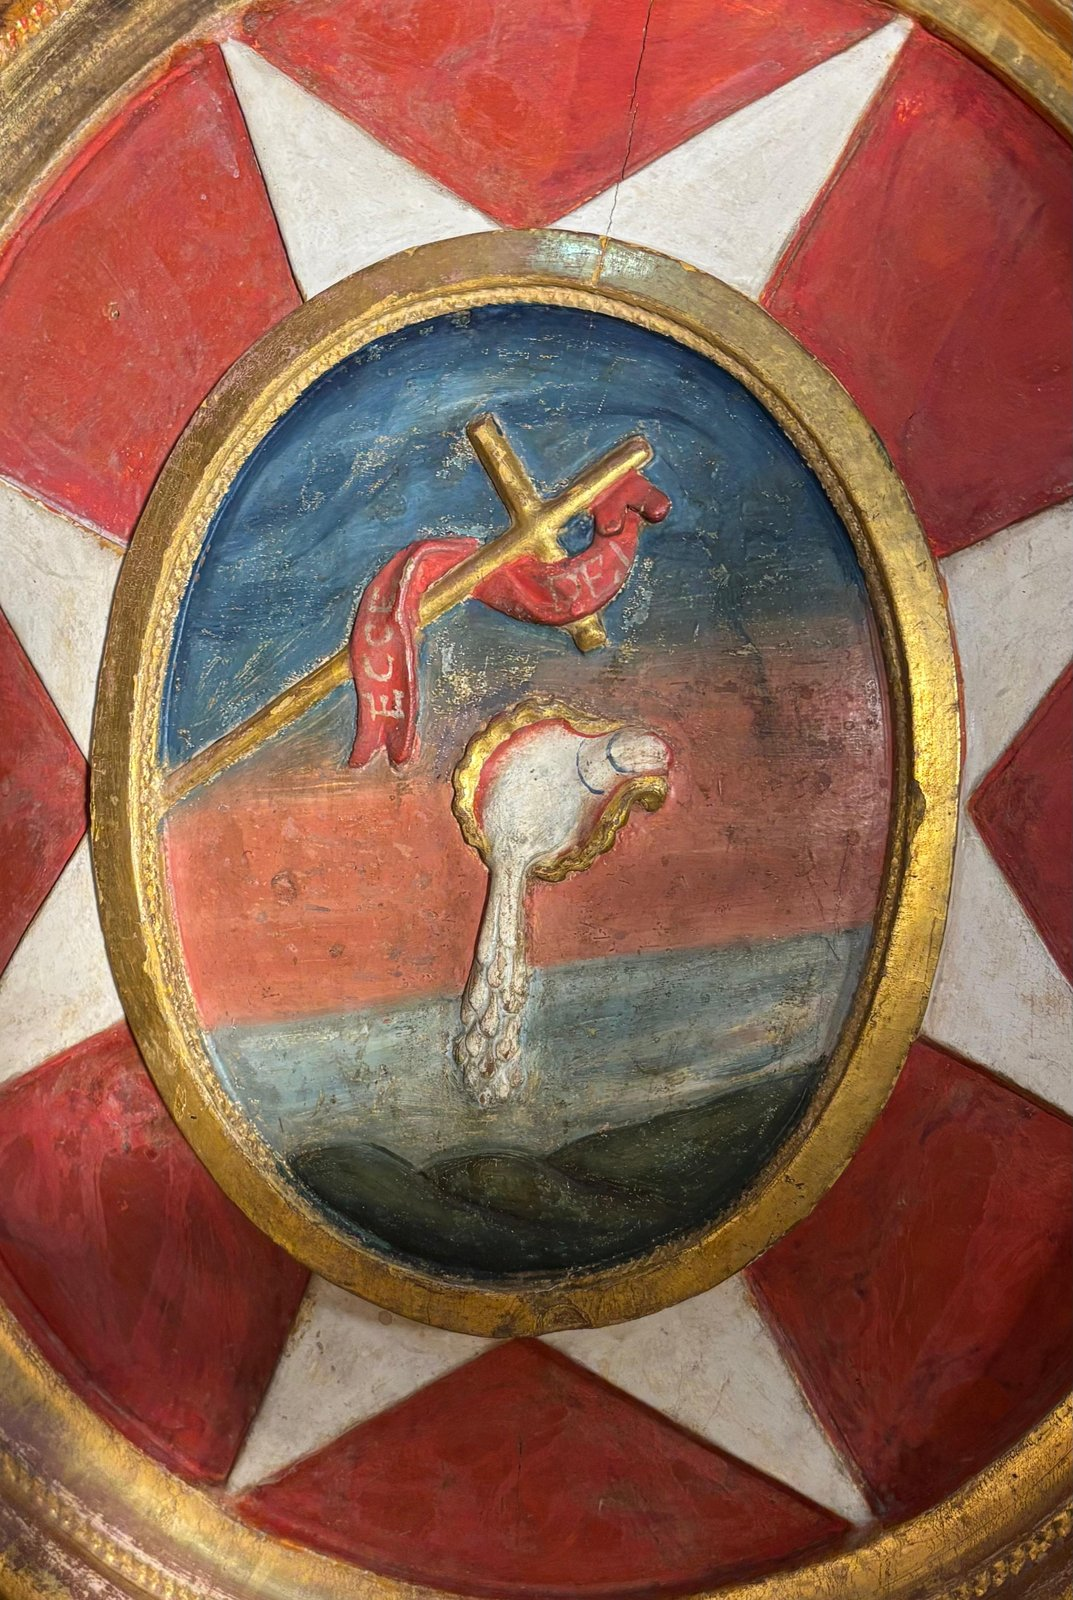
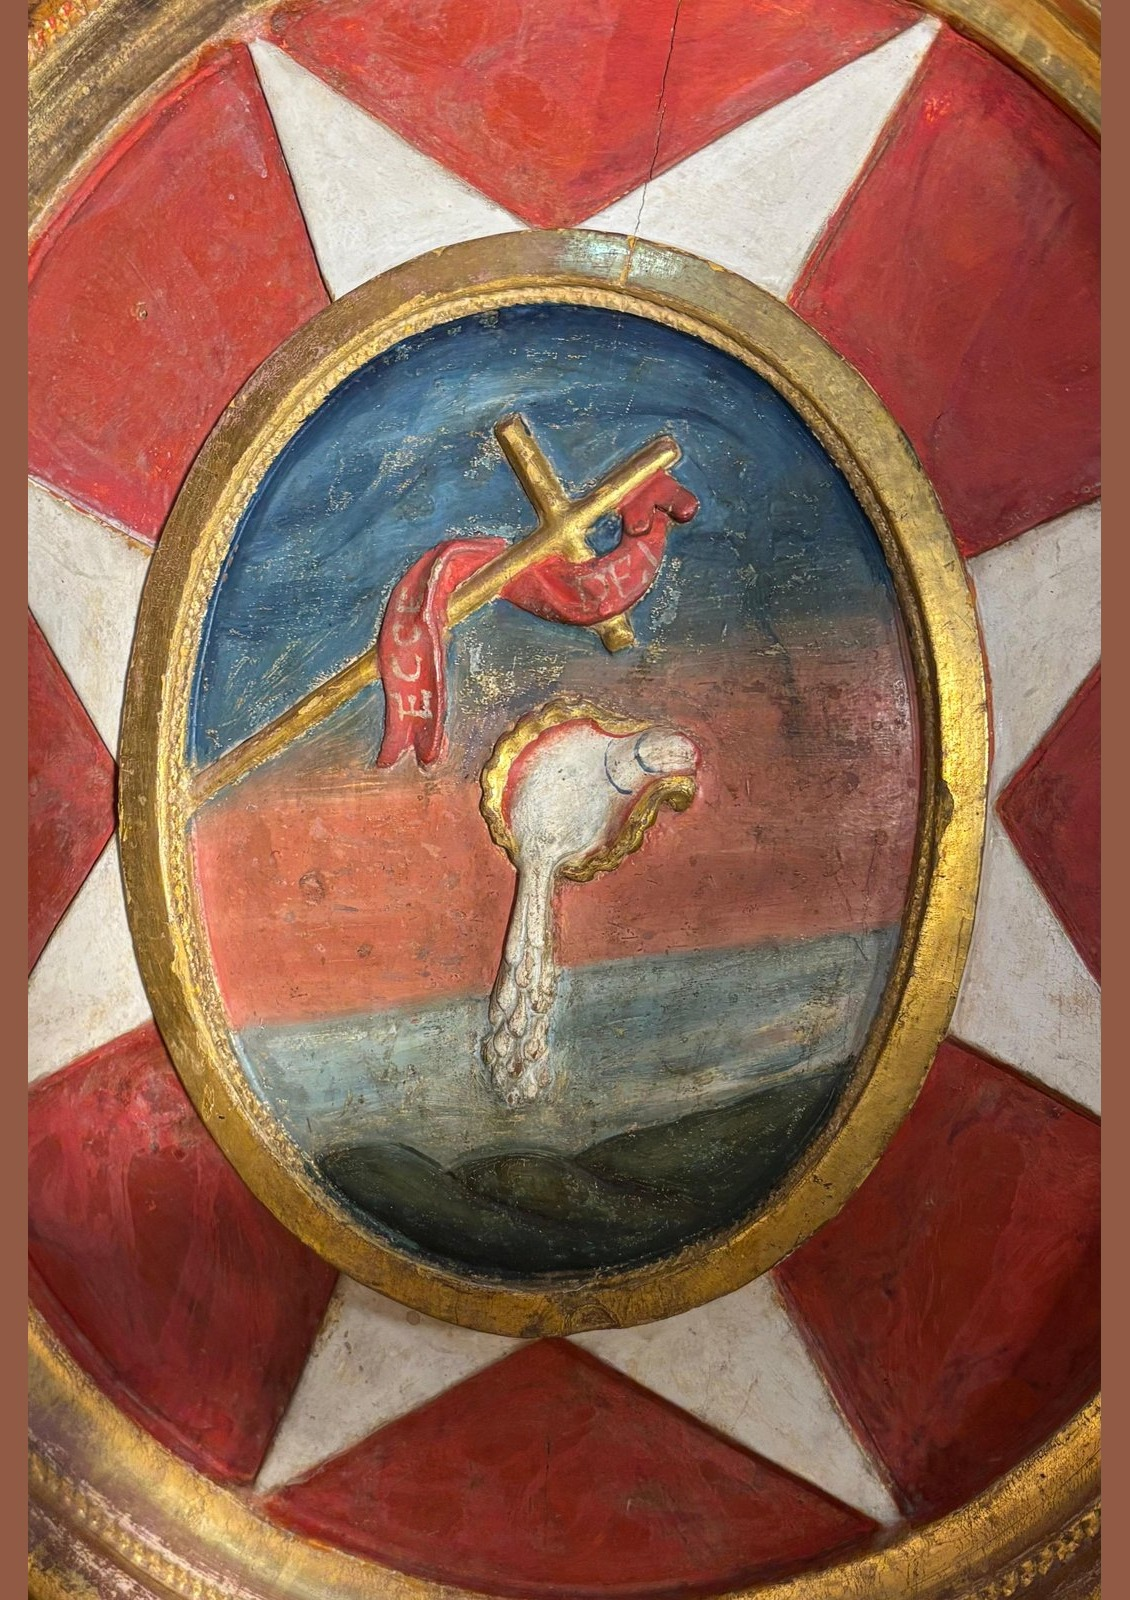
Portfolio step 5: uncropped before/after, text beside images (Palau 2026, MNAC)
- Before/after pairs padded to identical size (no crop, no stretch): the
  slider now shows each photo whole; cache-busted the replaced files
- Palau 2026: team photo and reverso video sit beside their text; the slider
  moves into phase 03 as a fourth piece of a 2x2 grid, same size as the rest
- MNAC: each of the three photos sits beside its text (text-left, photo-right)
- New .pf-ba-tile style for before/after inside a grid; trabajo.css v6

diff --git a/trabajos/palau-de-noguera-2026.html b/trabajos/palau-de-noguera-2026.html
@@ -215,7 +215,7 @@
     }
     .contact-modal-box .eyebrow { margin-bottom: 22px; }
 </style>
-  <link rel="stylesheet" href="../assets/trabajo.css?v=5" />
+  <link rel="stylesheet" href="../assets/trabajo.css?v=6" />
   <link rel="stylesheet" href="../assets/site.css?v=4" />
 </head>
 <body>
@@ -254,29 +254,12 @@
         <section class="pf-section">
           <span class="pf-step">01 · <span data-i18n="pal26_b1_note">ESCRBCC · Dos semanas · 2026</span></span>
           <h2 data-i18n="pal26_b1_h2">Lateral izquierdo del <span class="accent">retablo mayor</span>.</h2>
-          <div class="pf-text">
+          <div class="pf-split">
+            <div class="pf-text">
             <p data-i18n="pal26_b1_p1">Restauración del lateral izquierdo del retablo mayor de la iglesia parroquial de Sant Joan Baptista de Palau de Noguera, Tremp. Estas prácticas, organizadas por la ESCRBCC y coordinadas por los profesores Pau Claramonte y Lídia Balust, se desarrollaron a lo largo de dos semanas.</p>
           </div>
-          <div class="pf-grid c3">
             <figure class="pf-media">
               <img src="../assets/trabajos/palau-de-noguera-2026/equipo.jpg" alt="Equipo de conservación-restauración en Palau de Noguera" loading="lazy" />
-            </figure>
-          </div>
-        </section>
-
-        <section class="pf-ba-section">
-          <span class="pf-step"><span data-i18n="pf_ba_hint">Arrastra para comparar</span></span>
-          <h2 data-i18n="pf_ba_title">Antes y después</h2>
-          <div class="pf-ba-grid c1">
-            <figure class="pf-ba-item">
-              <div class="pf-ba" style="--pos: 50">
-                <img src="../assets/trabajos/palau-de-noguera-2026/reintegracion-antes.jpg" alt="Policromía antes de la reintegración" loading="lazy" />
-                <img class="pf-ba-after" src="../assets/trabajos/palau-de-noguera-2026/reintegracion-despues.jpg" alt="Policromía después de la reintegración" loading="lazy" />
-                <span class="pf-ba-tag before" data-i18n="ba_antes">Antes</span>
-                <span class="pf-ba-tag after" data-i18n="ba_despues">Después</span>
-                <div class="pf-ba-handle" aria-hidden="true"><span>&lsaquo;&rsaquo;</span></div>
-              </div>
-              <figcaption data-i18n="pal26_ba_cap">Reintegración de la policromía</figcaption>
             </figure>
           </div>
         </section>
@@ -284,10 +267,10 @@
         <section class="pf-section">
           <span class="pf-step">02 · <span data-i18n="pal26_b2_note">Limpieza · Desinfección · Consolidación</span></span>
           <h2 data-i18n="pal26_b2_h2">El <span class="accent">reverso</span> del retablo.</h2>
-          <div class="pf-text">
+          <div class="pf-split">
+            <div class="pf-text">
             <p data-i18n="pal26_b2_p1">El trabajo se llevó a cabo por el reverso y el anverso del retablo. En cuanto al reverso, se limpió, desinfectó y consolidó toda la estructura de madera, que sufría grandes ataques xilófagos.</p>
           </div>
-          <div class="pf-grid c3">
             <figure class="pf-media is-video">
               <video autoplay loop muted playsinline preload="metadata" poster="../assets/trabajos/palau-de-noguera-2026/poster-reverso.jpg">
                 <source src="../assets/trabajos/palau-de-noguera-2026/video-reverso.mp4?v=2" type="video/mp4">
@@ -302,7 +285,7 @@
           <div class="pf-text">
             <p data-i18n="pal26_b3_p1">En cuanto al anverso, el trabajo se centró en la consolidación de la policromía y los dorados originales, que presentaban levantamientos y riesgo de desprendimiento. Posteriormente se realizó la limpieza mecánica y fisicoquímica de las diferentes superficies del retablo, incluyendo dorados, policromías y madera vista.</p>
           </div>
-          <div class="pf-grid c3">
+          <div class="pf-grid c2">
             <figure class="pf-media is-video">
               <video autoplay loop muted playsinline preload="metadata" poster="../assets/trabajos/palau-de-noguera-2026/poster-policromia.jpg">
                 <source src="../assets/trabajos/palau-de-noguera-2026/video-policromia.mp4?v=2" type="video/mp4">
@@ -313,6 +296,15 @@
             </figure>
             <figure class="pf-media">
               <img src="../assets/trabajos/palau-de-noguera-2026/limpiando-polvo.jpg" alt="Limpieza de polvo sobre el retablo" loading="lazy" />
+            </figure>
+            <figure class="pf-media pf-ba-tile">
+              <div class="pf-ba" style="--pos: 50">
+                <img src="../assets/trabajos/palau-de-noguera-2026/reintegracion-antes.jpg?v=2" alt="Policromía antes de la reintegración" loading="lazy" />
+                <img class="pf-ba-after" src="../assets/trabajos/palau-de-noguera-2026/reintegracion-despues.jpg?v=2" alt="Policromía después de la reintegración" loading="lazy" />
+                <span class="pf-ba-tag before" data-i18n="ba_antes">Antes</span>
+                <span class="pf-ba-tag after" data-i18n="ba_despues">Después</span>
+                <div class="pf-ba-handle" aria-hidden="true"><span>&lsaquo;&rsaquo;</span></div>
+              </div>
             </figure>
           </div>
         </section>

diff --git a/trabajos/mnac.html b/trabajos/mnac.html
@@ -160,7 +160,7 @@
     }
     .contact-modal-box .eyebrow { margin-bottom: 22px; }
 </style>
-  <link rel="stylesheet" href="../assets/trabajo.css?v=5" />
+  <link rel="stylesheet" href="../assets/trabajo.css?v=6" />
   <link rel="stylesheet" href="../assets/site.css?v=4" />
 </head>
 <body>
@@ -198,11 +198,11 @@
 
         <section class="pf-section">
           <span class="pf-step">01 · <span data-i18n="mnac_b2_note">Revisión de salas</span></span>
-          <div class="pf-text">
+          <div class="pf-split">
+            <div class="pf-text">
             <p data-i18n="mnac_b1_p1">Al final del cuarto curso del Grado en Conservación y Restauración de Bienes Culturales, realicé las prácticas curriculares en el Museu Nacional d'Art de Catalunya (MNAC), dentro de la especialidad de pintura sobre tela. Las prácticas, organizadas por la ESCRBCC, estuvieron tutorizadas por Teresa Schreibweis y tuvieron una duración de un mes y medio.</p>
             <p data-i18n="mnac_b2_p1">Durante este período participé en diversas tareas vinculadas a la conservación y restauración de las colecciones del museo. Entre estas, destaca la revisión de las salas de la colección de Arte Moderno I, realizando controles de conservación preventiva, detección de incidencias, seguimiento del estado de las obras y tareas de mantenimiento básico.</p>
           </div>
-          <div class="pf-grid c3">
             <figure class="pf-media land">
               <img src="../assets/trabajos/mnac/IMG_5381.jpg" alt="Revisión de salas en el MNAC" loading="lazy" />
             </figure>
@@ -212,10 +212,10 @@
         <section class="pf-section">
           <span class="pf-step">02 · <span data-i18n="mnac_b3_note">Marco de Milicià ferit</span></span>
           <h2 data-i18n="mnac_b3_h2">Intervención del <span class="accent">marco</span>.</h2>
-          <div class="pf-text">
+          <div class="pf-split">
+            <div class="pf-text">
             <p data-i18n="mnac_b3_p1">También intervine el marco de la obra Milicià ferit de Francisco Mateos. La intervención incluyó la documentación gráfica, la elaboración de mapas de alteraciones, el estucado de las pérdidas y la posterior reintegración cromática.</p>
           </div>
-          <div class="pf-grid c3">
             <figure class="pf-media land">
               <img src="../assets/trabajos/mnac/IMG_4065.jpg" alt="Marco de la obra Milicià ferit de Francisco Mateos" loading="lazy" />
             </figure>
@@ -225,10 +225,10 @@
         <section class="pf-section">
           <span class="pf-step">03 · <span data-i18n="mnac_b4_note">Obra Safareig de Josep Frau</span></span>
           <h2 data-i18n="mnac_b4_h2"><span class="accent">Safareig</span> de Josep Frau.</h2>
-          <div class="pf-text">
+          <div class="pf-split">
+            <div class="pf-text">
             <p data-i18n="mnac_b4_p1">Además, participé en la conservación-restauración de la obra Safareig de Josep Frau, una pintura al óleo sobre tela que presentaba levantamientos de capa pictórica con riesgo de desprendimiento. La intervención se centró en la fijación de los levantamientos para recuperar su estabilidad estructural, seguida de una limpieza superficial mediante la aplicación de soluciones tampón.</p>
           </div>
-          <div class="pf-grid c3">
             <figure class="pf-media">
               <img src="../assets/trabajos/mnac/IMG_5203.jpg" alt="Conservación-restauración de la obra Safareig de Josep Frau" loading="lazy" />
             </figure>

diff --git a/trabajos/pintura-sobre-tela.html b/trabajos/pintura-sobre-tela.html
@@ -515,7 +515,7 @@
     }
     .contact-modal-box .eyebrow { margin-bottom: 22px; }
 </style>
-  <link rel="stylesheet" href="../assets/trabajo.css?v=5" />
+  <link rel="stylesheet" href="../assets/trabajo.css?v=6" />
   <link rel="stylesheet" href="../assets/site.css?v=4" />
 </head>
 <body>
@@ -575,8 +575,8 @@
           <div class="pf-ba-grid c2">
             <figure class="pf-ba-item">
               <div class="pf-ba" style="--pos: 50">
-                <img src="../assets/trabajos/pintura-sobre-tela/antes-anverso.jpg" alt="Anverso antes de la intervención" loading="lazy" />
-                <img class="pf-ba-after" src="../assets/trabajos/pintura-sobre-tela/despues-anverso.jpg" alt="Anverso después de la restauración" loading="lazy" />
+                <img src="../assets/trabajos/pintura-sobre-tela/antes-anverso.jpg?v=2" alt="Anverso antes de la intervención" loading="lazy" />
+                <img class="pf-ba-after" src="../assets/trabajos/pintura-sobre-tela/despues-anverso.jpg?v=2" alt="Anverso después de la restauración" loading="lazy" />
                 <span class="pf-ba-tag before" data-i18n="ba_antes">Antes</span>
                 <span class="pf-ba-tag after" data-i18n="ba_despues">Después</span>
                 <div class="pf-ba-handle" aria-hidden="true"><span>&lsaquo;&rsaquo;</span></div>
@@ -585,8 +585,8 @@
             </figure>
             <figure class="pf-ba-item">
               <div class="pf-ba" style="--pos: 50">
-                <img src="../assets/trabajos/pintura-sobre-tela/antes-reverso.jpg" alt="Reverso antes de la intervención" loading="lazy" />
-                <img class="pf-ba-after" src="../assets/trabajos/pintura-sobre-tela/despues-reverso.jpg" alt="Reverso después de la restauración" loading="lazy" />
+                <img src="../assets/trabajos/pintura-sobre-tela/antes-reverso.jpg?v=2" alt="Reverso antes de la intervención" loading="lazy" />
+                <img class="pf-ba-after" src="../assets/trabajos/pintura-sobre-tela/despues-reverso.jpg?v=2" alt="Reverso después de la restauración" loading="lazy" />
                 <span class="pf-ba-tag before" data-i18n="ba_antes">Antes</span>
                 <span class="pf-ba-tag after" data-i18n="ba_despues">Después</span>
                 <div class="pf-ba-handle" aria-hidden="true"><span>&lsaquo;&rsaquo;</span></div>

diff --git a/trabajos/palau-de-noguera.html b/trabajos/palau-de-noguera.html
@@ -502,7 +502,7 @@
     }
     .contact-modal-box .eyebrow { margin-bottom: 22px; }
 </style>
-  <link rel="stylesheet" href="../assets/trabajo.css?v=5" />
+  <link rel="stylesheet" href="../assets/trabajo.css?v=6" />
   <link rel="stylesheet" href="../assets/site.css?v=4" />
 </head>
 <body>
@@ -553,8 +553,8 @@
           <div class="pf-ba-grid c1">
             <figure class="pf-ba-item">
               <div class="pf-ba" style="--pos: 50">
-                <img src="../assets/trabajos/palau-de-noguera/antes.jpg" alt="Retablo antes de la intervención" loading="lazy" />
-                <img class="pf-ba-after" src="../assets/trabajos/palau-de-noguera/despues.jpg" alt="Retablo después de la limpieza" loading="lazy" />
+                <img src="../assets/trabajos/palau-de-noguera/antes.jpg?v=2" alt="Retablo antes de la intervención" loading="lazy" />
+                <img class="pf-ba-after" src="../assets/trabajos/palau-de-noguera/despues.jpg?v=2" alt="Retablo después de la limpieza" loading="lazy" />
                 <span class="pf-ba-tag before" data-i18n="pal_ba_antes">Antes</span>
                 <span class="pf-ba-tag after" data-i18n="pal_ba_despues">Después</span>
                 <div class="pf-ba-handle" aria-hidden="true"><span>&lsaquo;&rsaquo;</span></div>

diff --git a/assets/trabajo.css b/assets/trabajo.css
@@ -248,3 +248,13 @@
 .pf-split .pf-media { margin: 0; aspect-ratio: auto; }
 .pf-split .pf-media img { height: auto; }
 @media (max-width: 620px) { .pf-split { grid-template-columns: 1fr; } }
+
+/* Antes / después dentro de una cuadrícula (una pieza más, con la misma proporción 3:4) */
+.pf-media.pf-ba-tile { aspect-ratio: 3 / 4; background: var(--rose-50); }
+.pf-ba-tile .pf-ba { aspect-ratio: auto; width: 100%; height: 100%; border: 0; }
+.pf-ba-tile .pf-ba > img:not(.pf-ba-after) { position: absolute; inset: 0; width: 100%; height: 100%; object-fit: contain; }
+.pf-ba-tile .pf-ba > img.pf-ba-after { object-fit: contain; }
+.pf-ba-tile .pf-ba-tag { top: 10px; font-size: 10px; padding: 5px 10px; }
+.pf-ba-tile .pf-ba-tag.before { left: 10px; }
+.pf-ba-tile .pf-ba-tag.after { right: 10px; }
+

diff --git a/trabajos/dana.html b/trabajos/dana.html
@@ -406,7 +406,7 @@
     }
     .contact-modal-box .eyebrow { margin-bottom: 22px; }
 </style>
-  <link rel="stylesheet" href="../assets/trabajo.css?v=5" />
+  <link rel="stylesheet" href="../assets/trabajo.css?v=6" />
   <link rel="stylesheet" href="../assets/site.css?v=4" />
 </head>
 <body>

diff --git a/trabajos/parroquia-sant-agusti.html b/trabajos/parroquia-sant-agusti.html
@@ -400,7 +400,7 @@
     }
     .contact-modal-box .eyebrow { margin-bottom: 22px; }
 </style>
-  <link rel="stylesheet" href="../assets/trabajo.css?v=5" />
+  <link rel="stylesheet" href="../assets/trabajo.css?v=6" />
   <link rel="stylesheet" href="../assets/site.css?v=4" />
 </head>
 <body>
